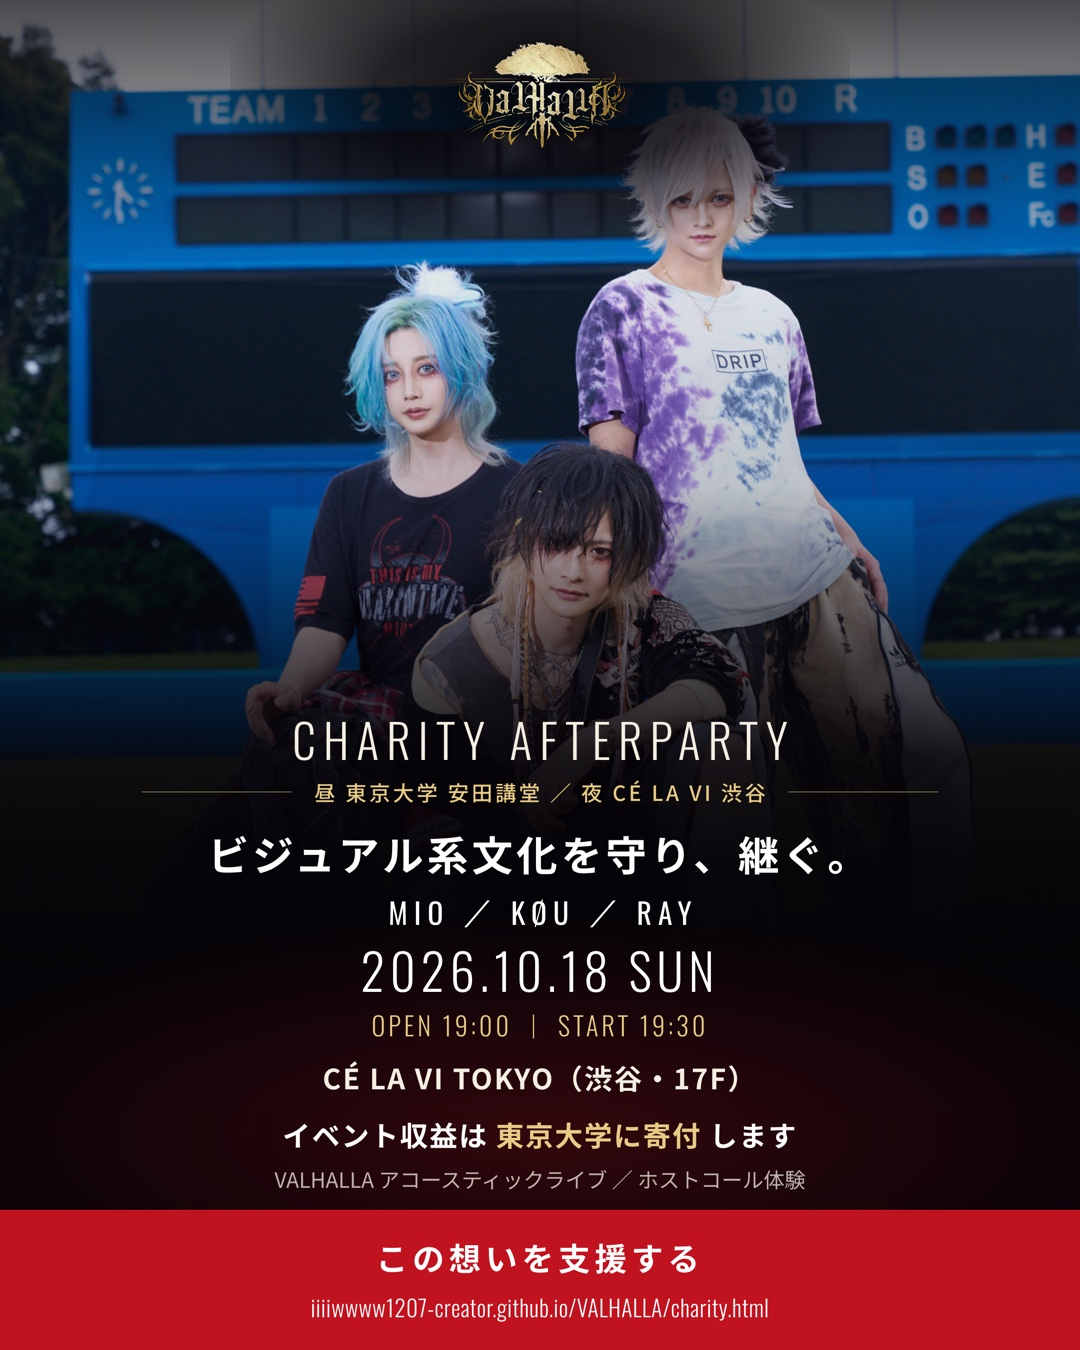
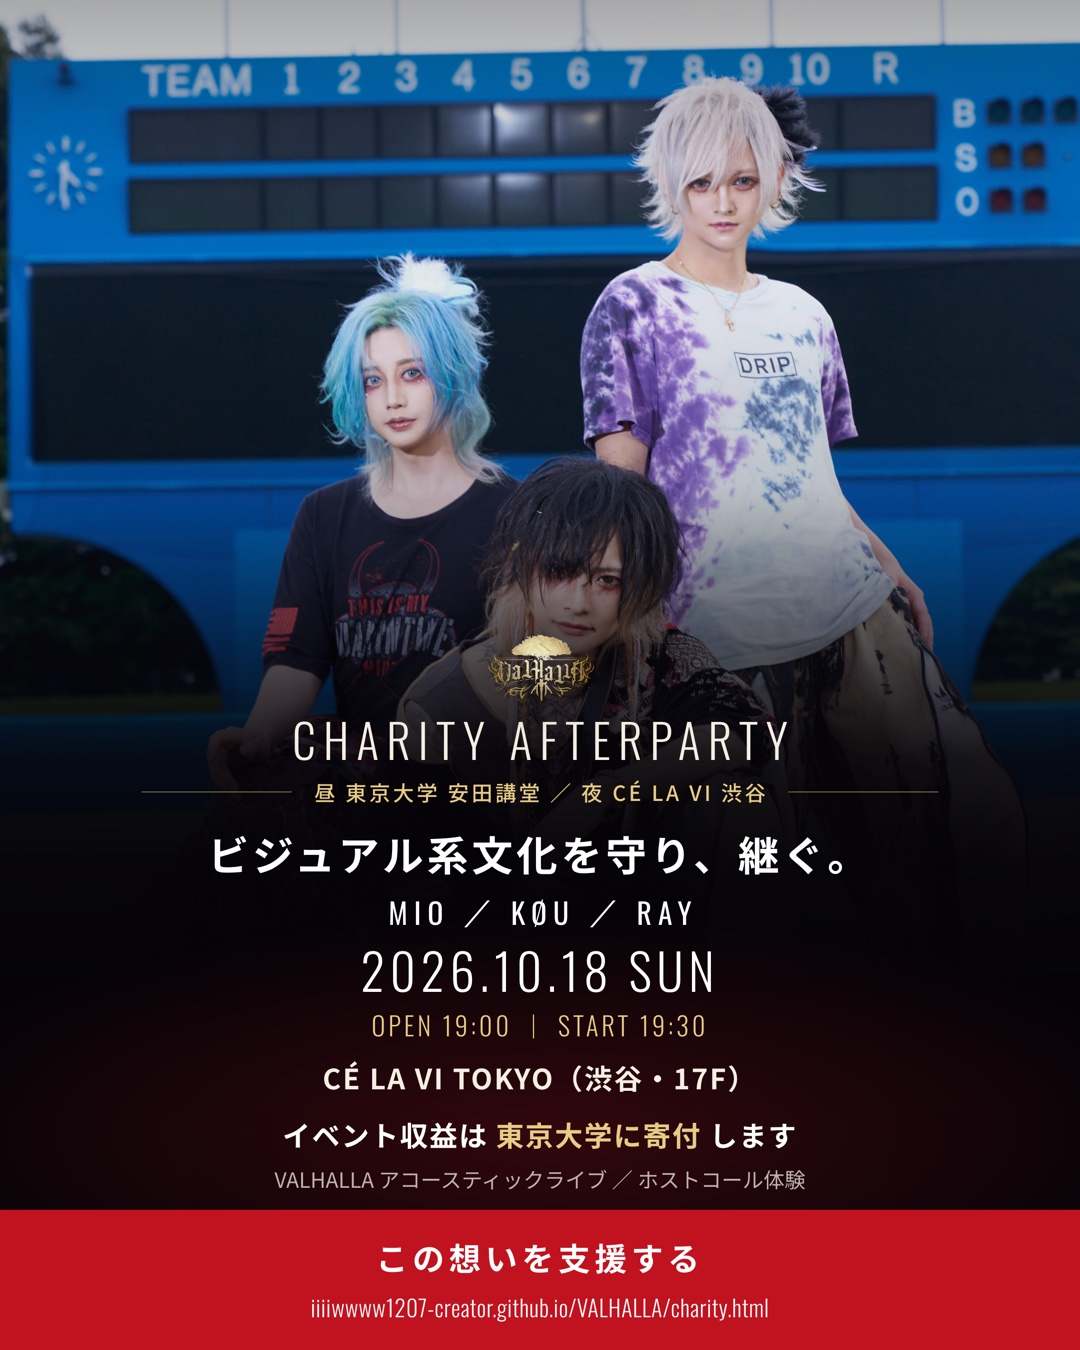
SNS1枚目：ロゴ都合の構図をやめ、3人の顔を中央に据え直した
kazuma 指摘「ロゴを無理に配置しなくていい／上の余白が空きすぎ／
3人の顔がちょうど真ん中に来るように」。

- 上部に絶対配置していたロゴ（.topmark）を撤去。
  ロゴは文字組みの先頭に小さく戻すだけにして、構図を主役に戻した
- 写真の寄りと位置を組み直し、空の余白を削って3人の顔が
  可視領域の中央に来るようにした
  feed45 = 113%幅 / center 101%
  square = cover  / center 86%
  story  = 166%幅 / center 87%
- ロゴが無くなったぶん上端の暗幕も元に戻した（空を余計に暗くしない）

3サイズとも MIO / KØU / RAY の顔が文字・ロゴに掛からないことを描画で確認済み。

diff --git a/flyer-sns.html b/flyer-sns.html
@@ -54,12 +54,12 @@
   .board.feed45 .bg,.board.square .bg,.board.story .bg{
       background-image:url('assets/charity/group_field.jpg');
       background-size:cover;opacity:1;filter:none}
-  .board.feed45 .bg{background-position:center 145%}
-  .board.square .bg{background-position:center 88%}
-  .board.story  .bg{background-size:150% auto;background-position:center 100%}
+  .board.feed45 .bg{background-size:113% auto;background-position:center 101%}
+  .board.square .bg{background-position:center 86%}
+  .board.story  .bg{background-size:166% auto;background-position:center 87%}
   .board.feed45 .veil,.board.square .veil,.board.story .veil{
       background:linear-gradient(180deg,
-        rgba(5,3,7,.72) 0%, rgba(5,3,7,.44) 9%, rgba(5,3,7,.08) 20%, rgba(5,3,7,.22) 36%,
+        rgba(5,3,7,.34) 0%, rgba(5,3,7,.10) 12%, rgba(5,3,7,.08) 22%, rgba(5,3,7,.22) 36%,
         rgba(5,3,7,.66) 48%, rgba(5,3,7,.92) 56%, rgba(5,3,7,.985) 64%, #050307 74%)}
   .board.feed45 .glow,.board.square .glow,.board.story .glow{
       background:radial-gradient(ellipse 84% 22% at 50% 84%, rgba(176,20,28,.26), transparent 74%)}
@@ -68,15 +68,6 @@
   .board.feed45 .cta,.board.square .cta,.board.story .cta{margin-top:0}
   .cast-line{font-family:'Oswald',sans-serif;font-weight:400;letter-spacing:.22em;
     text-indent:.22em;color:#fff;line-height:1}
-  /* 1枚目のロゴは文字組みの中ではなく紙面上部に置く（中央だと人物に被るため） */
-  .board.feed45 .head .mark,.board.square .head .mark,.board.story .head .mark{display:none}
-  .topmark{position:absolute;left:0;right:0;z-index:3;text-align:center}
-  .topmark img{position:relative;z-index:2;display:block;margin:0 auto;
-    filter:drop-shadow(0 4px 14px rgba(5,3,7,.95))}
-  .topmark::after{content:"";position:absolute;left:50%;top:50%;z-index:1;
-    transform:translate(-50%,-50%);
-    background:radial-gradient(ellipse at center,
-      rgba(5,3,7,.92) 0%, rgba(5,3,7,.72) 38%, rgba(5,3,7,.28) 62%, transparent 76%)}
 
   /* ── （2枚目では未使用）キャスト3枚並び ── */
   .cast{display:grid;grid-template-columns:repeat(3,1fr);gap:8px;flex:none}
@@ -180,11 +171,8 @@
      サイズ別の寸法
      ========================================================== */
   /* ---- 1080x1350（Instagram フィード・Xタイムラインで最も大きく出る） ---- */
-  .feed45 .topmark{top:40px}
-  .feed45 .topmark img{width:186px}
-  .feed45 .topmark::after{width:620px;height:290px}
   .feed45 .head{padding:0 70px 0}
-  .feed45 .head .mark{width:168px;margin-bottom:14px}
+  .feed45 .head .mark{width:118px;margin-bottom:12px}
   .feed45 .head h1{font-size:47px}
   .feed45 .head .ruled{margin-top:13px}
   .feed45 .head .ruled span{font-size:21px}
@@ -207,11 +195,8 @@
   .feed45 .cta u{margin-top:10px;font-size:23px}
 
   /* ---- 1080x1080（グリッド・X） ---- */
-  .square .topmark{top:34px}
-  .square .topmark img{width:160px}
-  .square .topmark::after{width:540px;height:250px}
   .square .head{padding:0 70px 0}
-  .square .head .mark{width:150px;margin-bottom:12px}
+  .square .head .mark{width:104px;margin-bottom:10px}
   .square .head h1{font-size:42px}
   .square .head .ruled{margin-top:16px}
   .square .head .ruled span{font-size:21px}
@@ -280,11 +265,8 @@
   /* ---- 1080x1920（ストーリー／リール）
          上下 240px は端末UIに隠れやすいのでセーフエリアを空ける ---- */
   .story{padding:120px 0 50px}
-  .story .topmark{top:170px}
-  .story .topmark img{width:224px}
-  .story .topmark::after{width:740px;height:340px}
   .story .head{padding:0 80px 0}
-  .story .head .mark{width:220px;margin-bottom:20px}
+  .story .head .mark{width:146px;margin-bottom:14px}
   .story .head h1{font-size:60px}
   .story .head .ruled{margin-top:28px}
   .story .head .ruled span{font-size:27px}
@@ -312,7 +294,6 @@
 <!-- ============ 1080 x 1350 ／ Instagram フィード・X ============ -->
 <section class="board feed45">
   <div class="bg"></div><div class="veil"></div><div class="glow"></div>
-  <div class="topmark"><img src="assets/charity/logo_gold.webp" alt="VALHALLA"></div>
   <div class="head">
     <img class="mark" src="assets/charity/logo_gold.webp" alt="VALHALLA">
     <h1>Charity Afterparty</h1>
@@ -338,7 +319,6 @@
 <!-- ============ 1080 x 1080 ／ グリッド・X ============ -->
 <section class="board square">
   <div class="bg"></div><div class="veil"></div><div class="glow"></div>
-  <div class="topmark"><img src="assets/charity/logo_gold.webp" alt="VALHALLA"></div>
   <div class="head">
     <img class="mark" src="assets/charity/logo_gold.webp" alt="VALHALLA">
     <h1>Charity Afterparty</h1>
@@ -360,7 +340,6 @@
 <!-- ============ 1080 x 1920 ／ ストーリー・リール ============ -->
 <section class="board story">
   <div class="bg"></div><div class="veil"></div><div class="glow"></div>
-  <div class="topmark"><img src="assets/charity/logo_gold.webp" alt="VALHALLA"></div>
   <div class="head">
     <img class="mark" src="assets/charity/logo_gold.webp" alt="VALHALLA">
     <h1>Charity Afterparty</h1>

diff --git a/docs/celavi-afterparty.md b/docs/celavi-afterparty.md
@@ -88,8 +88,10 @@
       - 1枚目＝掴み。**金額は載せない**（2枚目とダブるため）。顔・イベント名・タグライン・日時会場・寄付まで
       - 1枚目のビジュアルは **`group_field.jpg`（3人の集合写真）をフルブリード**（kazuma 指示 2026-08-27）。
         個別3枚の並びから変更。縦位置写真なので写真を全面に敷き、下半分にスクリムを掛けて文字を載せる。
-        3人が縦に散った構図のため、サイズごとに background-position を個別調整して
-        3人の顔が文字に隠れないようにしている（feed45=145% / square=88% / story=150%幅・100%）
+        3人が縦に散った構図のため、サイズごとに寄りと位置を個別調整している。
+        **ロゴに合わせて構図を歪めない**こと（kazuma 指摘）。ロゴは文字組みの先頭に小さく置くだけで、
+        写真は「上の空を詰めて、3人の顔が見える範囲の中央に来る」ことを優先する。
+        現在値: feed45=113%幅/101% ・ square=cover/86% ・ story=166%幅/87%
       - 2枚目＝席の中身と価格の理由。ここで初めて金額を出す
       - 2枚目の背景は安田講堂の**内観を「引き」で全景**（寄せると何の建物か分からなくなるため）
       - ※ A4版は単票で完結させる必要があるので、A4には金額を残している
